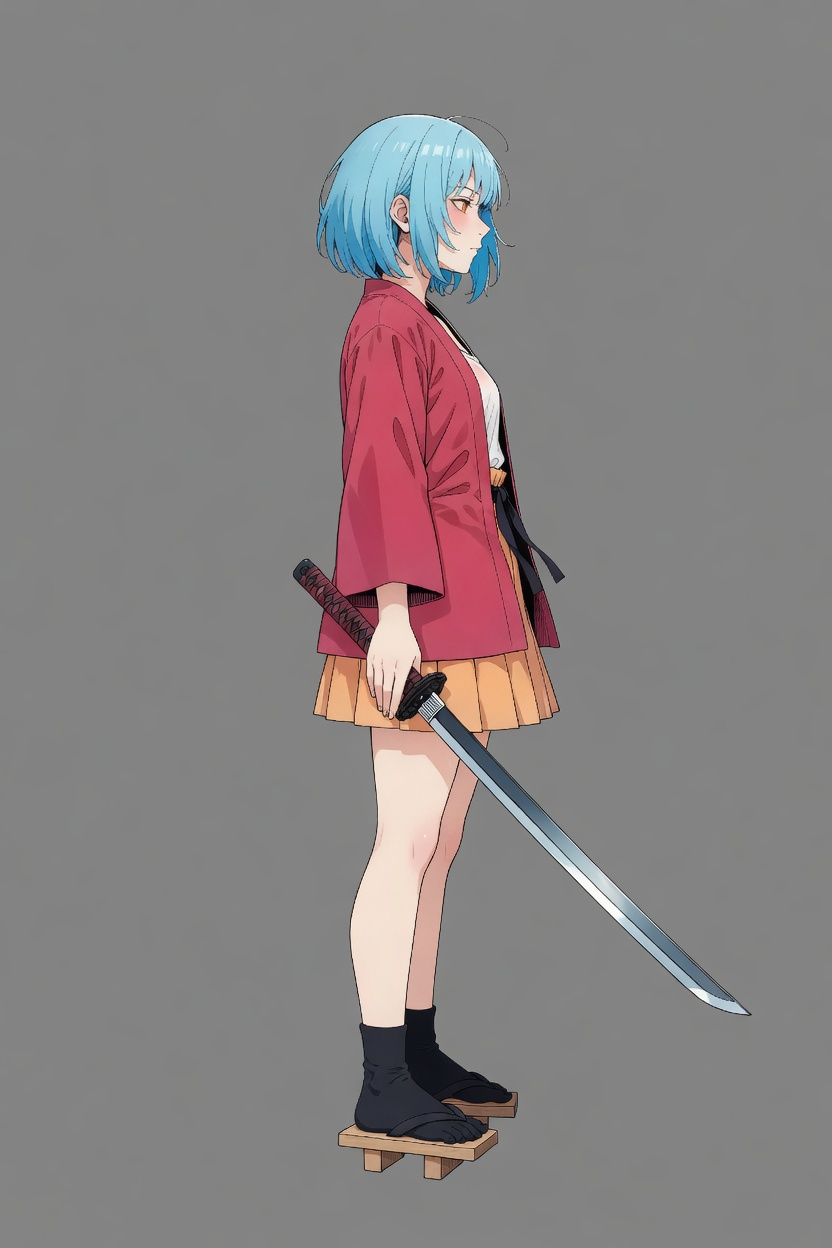
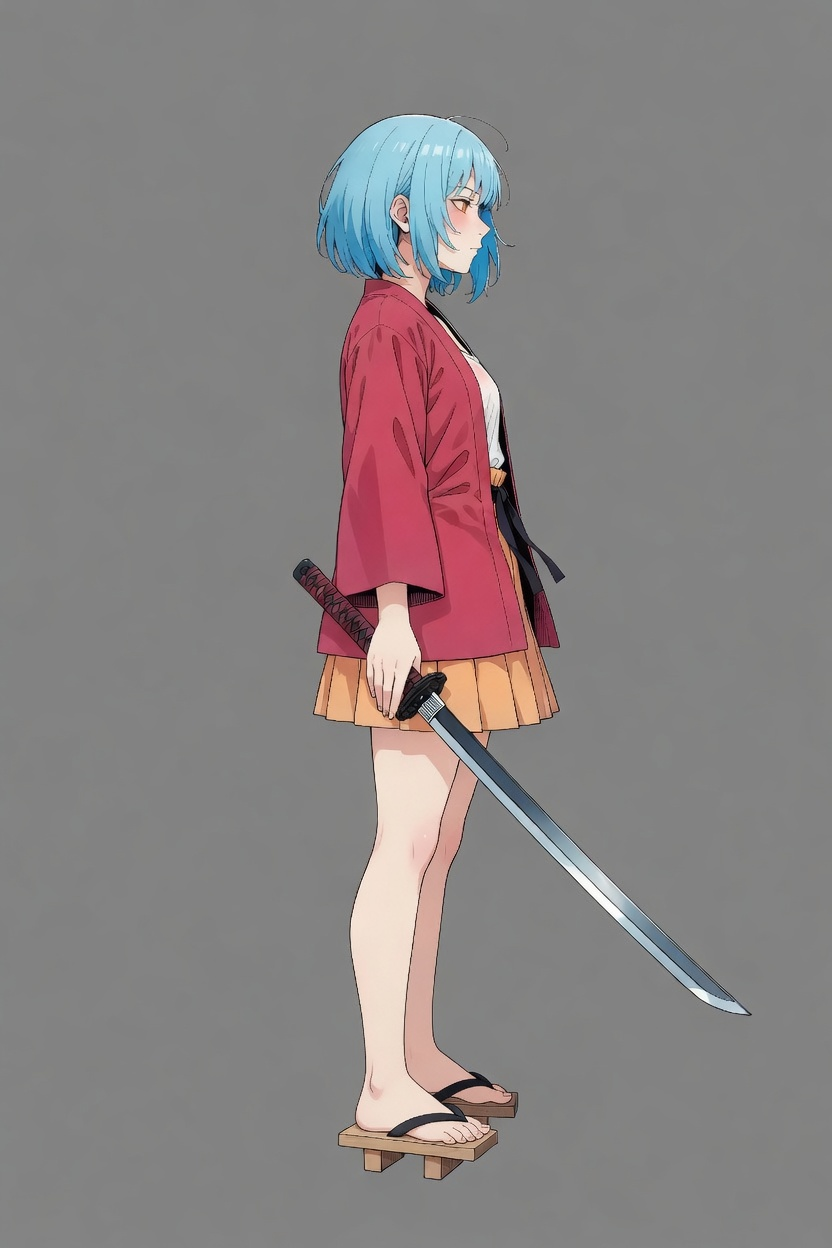
ORC-20260823-004: replace Meshy right T-pose socks with barefoot geta

Changed region(s): [[0.4062, 0.7812, 0.625, 0.9375], [0.5, 0.5625, 0.5312, 0.5938]]

diff --git a/art/3d/trials/meshy-girl1/README.md b/art/3d/trials/meshy-girl1/README.md
@@ -17,7 +17,10 @@ Use the T-pose pack. Neutral pose rigs much better than idle.
 
 Backup if the T-pose result looks wrong: `upload/identity/` (idle front / right / back). Do not mix T-pose and idle in one generation.
 
-Known input issue: front and right T-pose hold the sword; the back T-pose has empty hands and a sheathed sword. Expect the first mesh to fuse the katana into the right hand. That is acceptable for this trial.
+Known input issues:
+
+- Front and right T-pose hold the sword; the back T-pose has empty hands and a sheathed sword. Expect the first mesh to fuse the katana into the right hand. That is acceptable for this trial.
+- The first right T-pose had black tabi/socks. `02-right.jpg` is now bare feet in geta to match front/back. The socked original is `02-right-socks-archived.jpg` and must not be uploaded.
 
 ## Owner: subscribe
 
